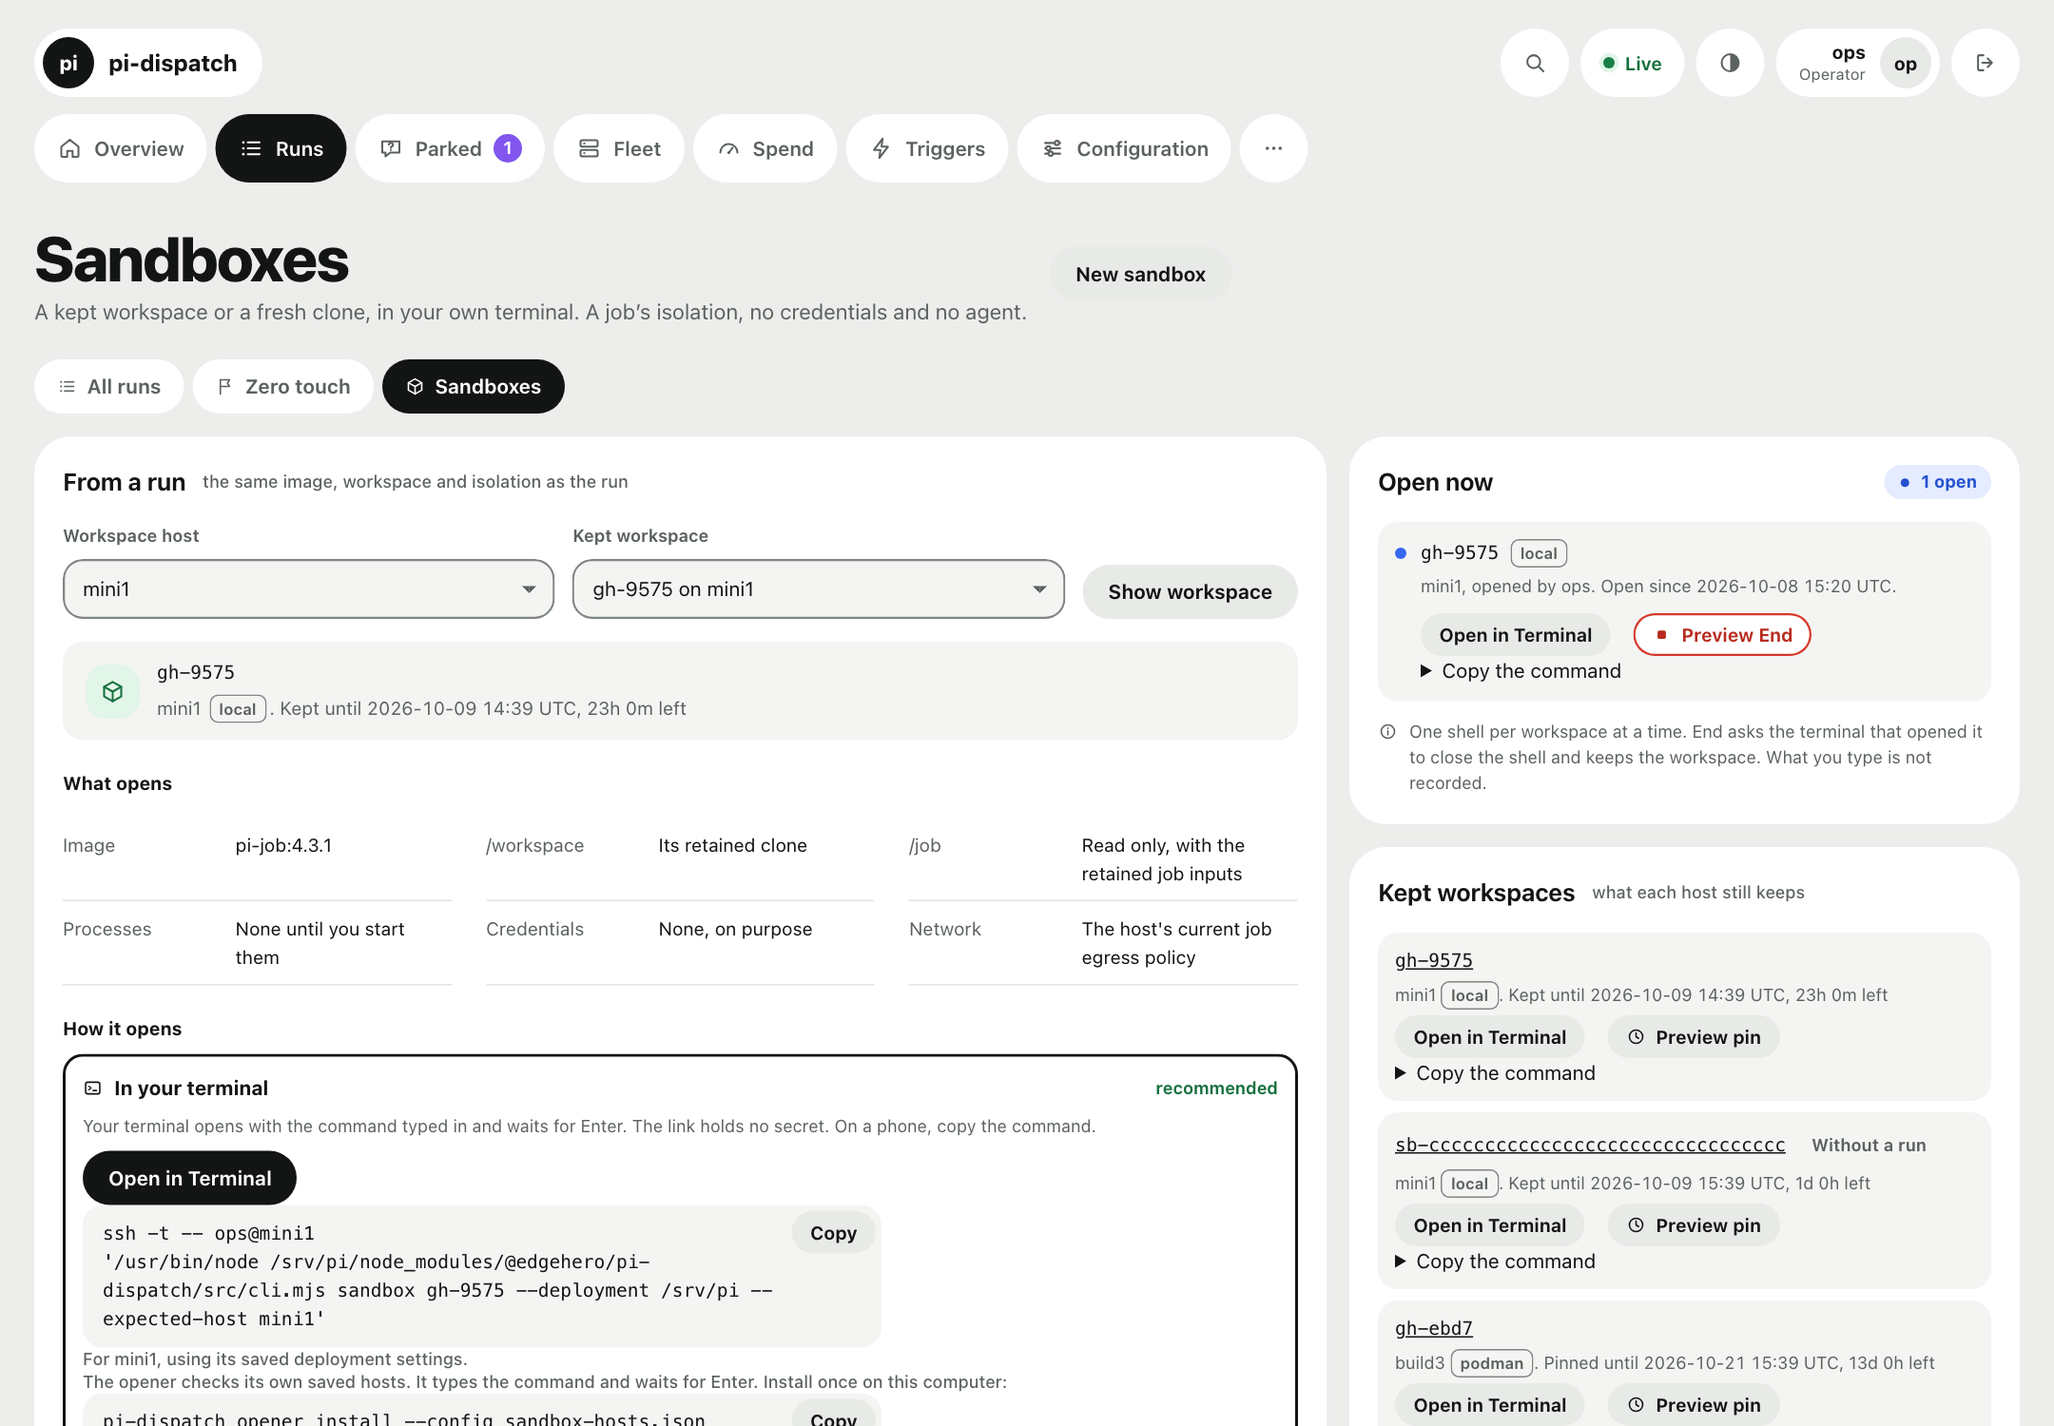
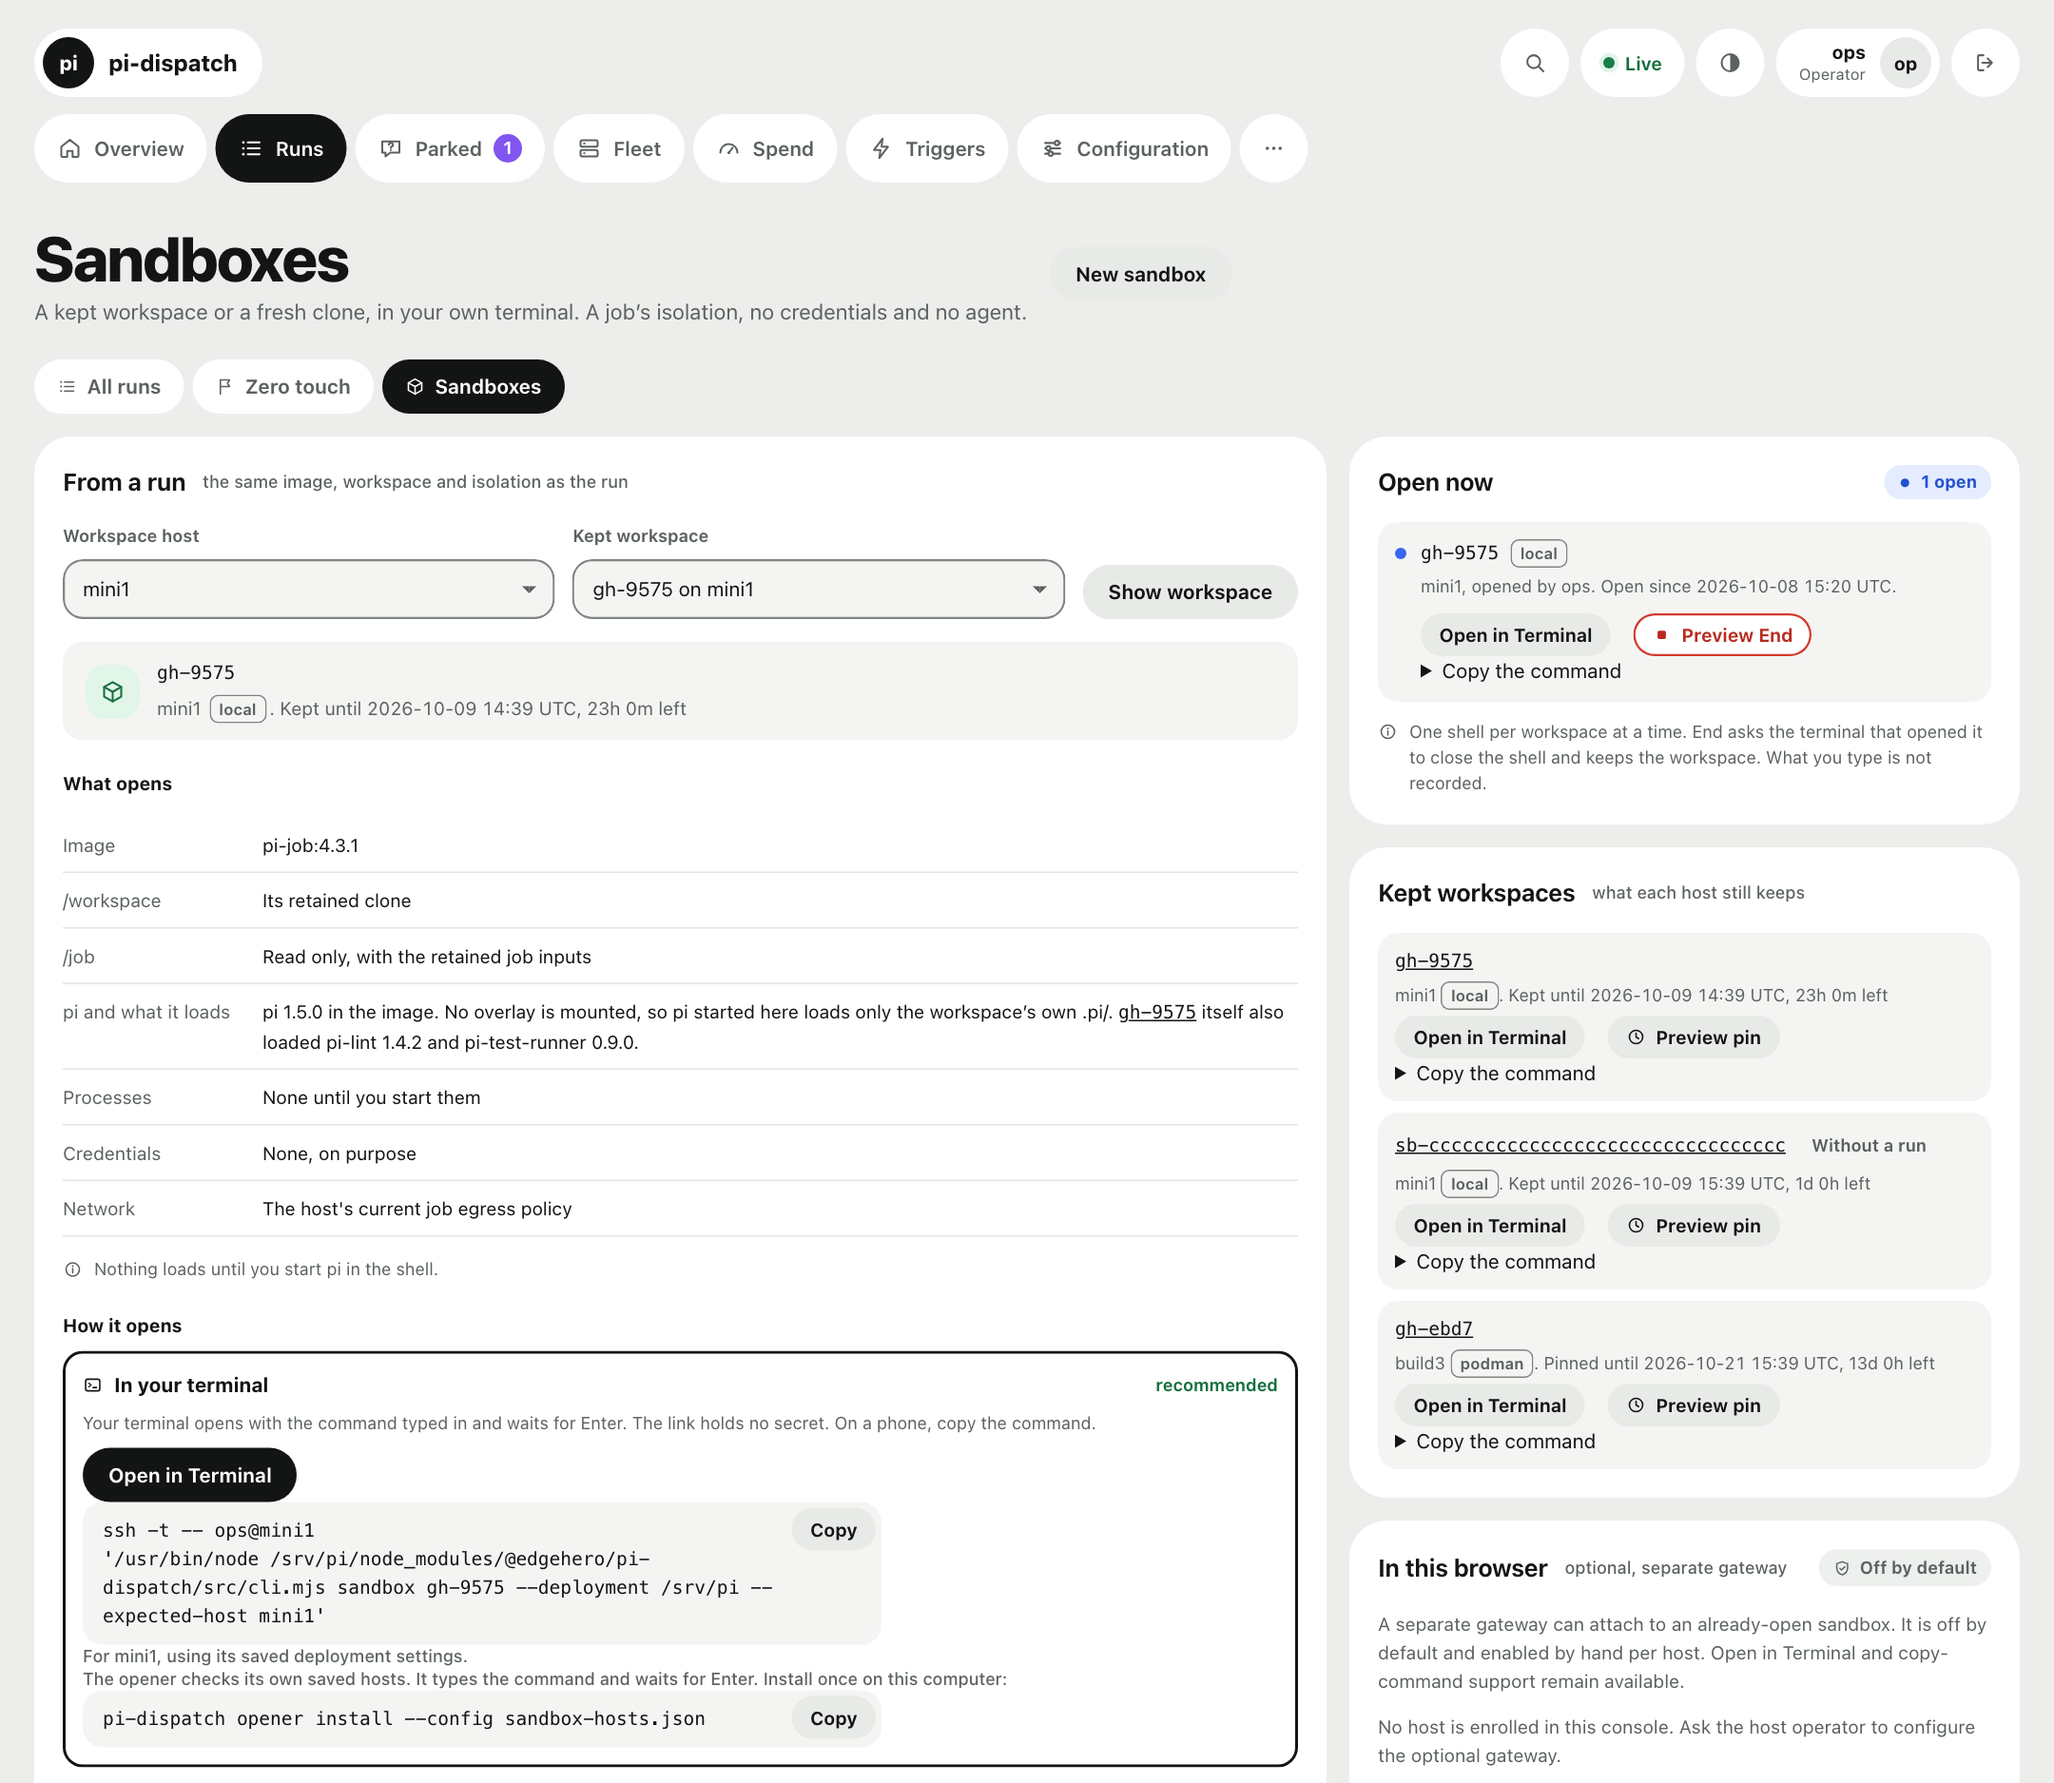
docs(readme): say what a job gets, and show it (#800)
A job's setup comes from four places that each change on their own, and part 1 records what each run really had. The root README
now says so in plain words, in a new "What a job gets" before "How to use it", for someone who did not watch the job. It names only
the record and where it shows: nothing here says a page can change anything, because the trigger page comes later. The glossary gains
extension, MCP server and tool. Below "For engineers" the record's sentence stays true: "ids only" was no longer so, so it says ids and
the names you configured, and says plainly that a repo's own extension runs in the process that reports this, so a tool's name is held
to one narrow shape. The top half therefore says the list keeps no text from an issue and only counts a repository's own skills and
extensions, and does not say "never text from a repository", which that residual would make too strong.

A test holds the section to the console: the two words a row reads to outcomeNote, and its list to each line of the Loaded card.

Images, each read beside its alt text:
- console-run-loaded is new, the Loaded card alone. It shows its top line and the six lines its alt names.
- console-project: the crop goes from 960 to 1470, so What its runs load shows whole, with its table by host, and Members under it. The
  recent runs the old alt named were not in the old crop either, so the alt now names what is.
[…]

diff --git a/README.md b/README.md
@@ -185,22 +185,23 @@ you send it ([answer rules](docs/answer-rules.md)).
 **Picking up where it stopped:** if a machine restarts or a job's box dies, a job that opted in continues from its last checkpoint
 instead of paying for everything again ([durable runs](docs/durable-runs.md)).
 
-![A run that lost its first attempt and continues as a recovery job, with what it had done and what carries over](docs/images/console/console-recovery.png?v=2026-11-03)
+![A run that lost its first attempt and continues as a recovery job: the attempt that failed, the checkpoints it had written and the recovery job that goes on from them](docs/images/console/console-recovery.png?v=2026-11-03-800)
 
 **Trying it yourself:** reopen a finished job's workspace in a fresh box with no keys, or prepare one from scratch, and open it in your
-own terminal or your browser ([sandboxes](docs/sandbox.md), [browser terminal](docs/sandbox-gateway.md)).
+own terminal or your browser. The page says what pi can load there, which is only what the project holds
+([sandboxes](docs/sandbox.md), [browser terminal](docs/sandbox-gateway.md)).
 
-![The Sandboxes page: choose a kept workspace or start from a repository, see what opens and what it holds, and open it in your terminal](docs/images/console/console-sandboxes.png?v=2026-11-03)
+![The Sandboxes page: choose a kept workspace, see what opens and what pi can load there, and open it in your terminal, with a button for a new one](docs/images/console/console-sandboxes.png?v=2026-11-03-800)
 
 **Updates:** which version of pi and which extensions your jobs run, what is newer, a capped trial on a real job, and Adopt. Nothing
 updates by itself ([updates](docs/console.md#updates)).
 
 ![The Updates page: what jobs run now, what is newer, a button to run a canary, and which version each host holds](docs/images/console/console-updates.png?v=2026-11-03)
 
-**Projects:** group your repositories into a project, with its own limits, share of the budget and history
-([projects](docs/projects.md), [budget split](docs/allocation.md)).
+**Projects:** group your repositories into a project, with its own limits, share of the budget and history, and see what its runs
+loaded on each machine ([projects](docs/projects.md), [budget split](docs/allocation.md)).
 
-![One project: its members, its limits, what it has spent and its recent runs](docs/images/console/console-project.png?v=2026-11-03)
+![One project: what it has spent, its runs of the last day, what its runs loaded on each machine and where they differ, its members and its limits](docs/images/console/console-project.png?v=2026-11-03-800)
 
 **A trigger:** what starts it, what it runs and what it has cost. A schedule also gets a button that fires it now
 ([triggers](docs/triggers.md)).
@@ -238,7 +239,26 @@ extensions with `--no-extensions`, or keep one trigger's jobs out of your packag
 
 Your projects still win. A job layers your setup under the project's own `.pi/` folder, so a project's skill replaces yours of the same
 name, and a small safety floor sits under both, which neither can remove. To add a language or a system tool rather than a pi setting, build
-your own [job image](docs/job-image.md). The details are in [`docs/global-pi-overlay.md`](docs/global-pi-overlay.md).
+your own [job image](docs/job-image.md). The details are in [`docs/global-pi-overlay.md`](docs/global-pi-overlay.md), and each run says what it
+really got ([What a job gets](#what-a-job-gets)).
+
+## What a job gets
+
+A job starts with four things: your setup on the machine it runs on, what the repository holds, what its trigger says, and
+the box it runs in. Each changes on its own, so two jobs of one trigger can start differently.
+
+**Every run keeps a list of what it had:** the version of pi, the model, its skills, its extensions, the outside systems it
+connected to, and its tools. The run's page shows that list and says plainly when something is missing, so you can check a
+job you did not watch.
+
+![The Loaded card of a finished run: everything its trigger asks for loaded, then pi, the model, extensions, skills, outside systems and tools, one line each](docs/images/console/console-run-loaded.png?v=2026-11-03-800)
+
+**A clean finish can still be missing something:** a job that finishes without its instructions reads **Completed, without
+its flow**, and one with an extension that failed to load reads **Completed, with a failed extension**. The Runs list says the
+same, so it does not read as fine. A project's page says when its runs differ from machine to machine.
+
+**What the list holds:** the names of what you set up, the tools those brought, and counts. It keeps no text from an issue,
+and a repository's own skills and extensions are only counted: you read those in the repository. A run from an older release says its list was not recorded ([what each line means and what to do](docs/console.md#what-a-run-loaded)).
 
 ## How to use it
 
@@ -275,6 +295,9 @@ happening ends it sooner. After that, you need your token or a new link, which `
 | **Job**, or **run** | One piece of work, from start to finish |
 | **Trigger** | A rule for what starts a job: a schedule, a label, a comment |
 | **Flow** | A short text file in your project with the standing instructions for a kind of job |
+| **Extension** | An add-on for pi, which can give the agent new tools |
+| **MCP server** | An outside system a job can connect to |
+| **Tool** | One thing the agent can do, such as read a file |
 | **Container** | The sealed box a job runs in, thrown away afterwards |
 | **Forge** | The place your code lives: GitHub, GitLab, Forgejo or Azure DevOps |
 | **Repository** | A project's code and its history, on a forge or in a folder (a "git repository") |
@@ -533,9 +556,12 @@ Every trigger takes this path: spend is checked before the container starts, and
 ## Costs, projects and capacity
 
 **Costs.** A turn limit per job, job and token caps for the whole deployment, dollar caps per day, week and month, and a dollar
-cap per job. Caps can apply per repo, folder, model or project. Every job writes a durable record with ids only, never issue or
-comment text, with a usage ledger per model that the insights page prices ([`docs/costs.md`](docs/costs.md),
-[`docs/insights.md`](docs/insights.md)). A zero rate run with no declared plan reads `$0 (unrated)`, never "free".
+cap per job. Caps can apply per repo, folder, model or project. Every job writes a durable record of ids and the names you configured,
+never issue or comment text, with a usage ledger per model that the insights page prices ([`docs/costs.md`](docs/costs.md),
+[`docs/insights.md`](docs/insights.md)). What the job loaded is on that record: the names and versions of what you staged and configured,
+the tools those brought, and counts for what the repo holds. A repo's own extension runs in the process that reports this, so the
+worker checks each name against what it knows and holds a tool's name to one narrow shape
+([what a run loaded](docs/console.md#what-a-run-loaded)). A zero rate run with no declared plan reads `$0 (unrated)`, never "free".
 
 **Projects and split.** Group repos and folders into projects and cap each as one. Set a dollar total with a floor per project, and a
 flow can move money between projects inside it, never above the total or below a floor. Every move is logged and can be reverted
@@ -572,7 +598,8 @@ instructions ([`docs/global-pi-overlay.md`](docs/global-pi-overlay.md)).
 
 - **Nothing installs at job time.** Every job runs with `PI_OFFLINE=1`, so pi's resolver cannot shell out to npm. A package is staged on the host, at an
   exact version, always with `--ignore-scripts` ([`docs/workflows.md`](docs/workflows.md)).
-- **A repo's own `.pi/extensions` do run**, because the checkout is the default branch and merging is the gate. Nothing installs packages because a repo asks.
+- **A repo's own `.pi/extensions` do run**, because the checkout is the default branch and merging is the gate. Nothing installs packages because a repo asks. On a run's
+  record they are counts, and a failed one's button opens the commit that ran ([what a run loaded](docs/console.md#what-a-run-loaded)).
 - **MCP servers are yours, not the repo's.** A repo's `.pi/mcp.json` is never read for a job, and a trigger names the servers its jobs connect
   ([`docs/mcp.md`](docs/mcp.md)).
 - **Sessions save the full transcript to disk**, which is a real disclosure: read [`docs/sessions.md`](docs/sessions.md) before you turn them on.

diff --git a/admin/README.md b/admin/README.md
@@ -236,17 +236,18 @@ One command puts a live terminal view over the whole deployment:
   read tools. Runs report local retention when known; hosts report budgets, holds, CPU reserve, orphans,
   kept sandboxes, doctor counts and qualified venue declarations. Costs include running holds and bounded
   what-if estimates. Model results omit private job/operator text, question and draft content, variable
-  names and host paths. Setup suggestions come from the trusted command catalogue.
+  names, host paths and what a run loaded. Setup suggestions come from the trusted command catalogue.
 - **Logs stay put.** Raw container output shows only in the panel's viewer, never in model context.
 
 **A web console as well.** The same package installs `pi-dispatch-console`, a separate process that serves a live web
 console for the deployment on loopback or on a private unix socket, behind a named token per person. It shows the
 whole fleet as it changes: an overview of what needs you, what waits and why, and the last hours as a timeline (on a
-deployment that has not run yet, what stands before its first job), every run with filters, one search by
+deployment that has not run yet, what stands before its first job), every run with filters and what it loaded (a run that
+finished without its flow or with a failed extension says so), one search by
 repository, target or job id, the last 24 hours counted by outcome and paging, a card for each run waiting for an
-answer, spend and insights by range, queues, hosts and schedules, the configuration and its own audit
+answer, spend and insights by range, queues, hosts and schedules, the configuration, what a project's runs load on each host, and its own audit
 log, plus `/api/state` as JSON for scripts. It also has Models (roles, fallbacks and canary comparisons), Updates (what jobs run and what is
-newer), Watch (findings from your alerts), Sandboxes (kept workspaces and shells), Zero touch (how often runs needed a person) and
+newer), Watch (findings from your alerts), Sandboxes (kept workspaces and shells, and what pi can load in one), Zero touch (how often runs needed a person) and
 Setup (a live checklist for a new deployment). It reads through the same code as the panel, so the two never disagree;
 the panel shows the waiting runs too.
 It can act as well as show: cancel, retry, remove and re-run jobs, answer a parked run, pause the fleet or one queue

diff --git a/worker/README.md b/worker/README.md
@@ -10,7 +10,7 @@ The worker takes jobs from a durable queue (Valkey with BullMQ). Before anything
 cap that applies: job counts and a daily token count for the whole deployment, job counts per repo, folder
 or project, and dollars per day, week or month for the deployment and per repo, folder, project or model,
 plus each project's share of the budget split. It then starts one locked down container per job (Docker or
-Podman), holds the job to its own dollar cap when one is set, gives the agent the job, records what it did
+Podman), holds the job to its own dollar cap when one is set, gives the agent the job, records what it loaded, what it did
 and what it cost, and removes the container. Jobs come from the command line, from cron triggers, or from
 forge events that the
 [receiver](https://www.npmjs.com/package/@edgehero/pi-dispatch-receiver) queues.
